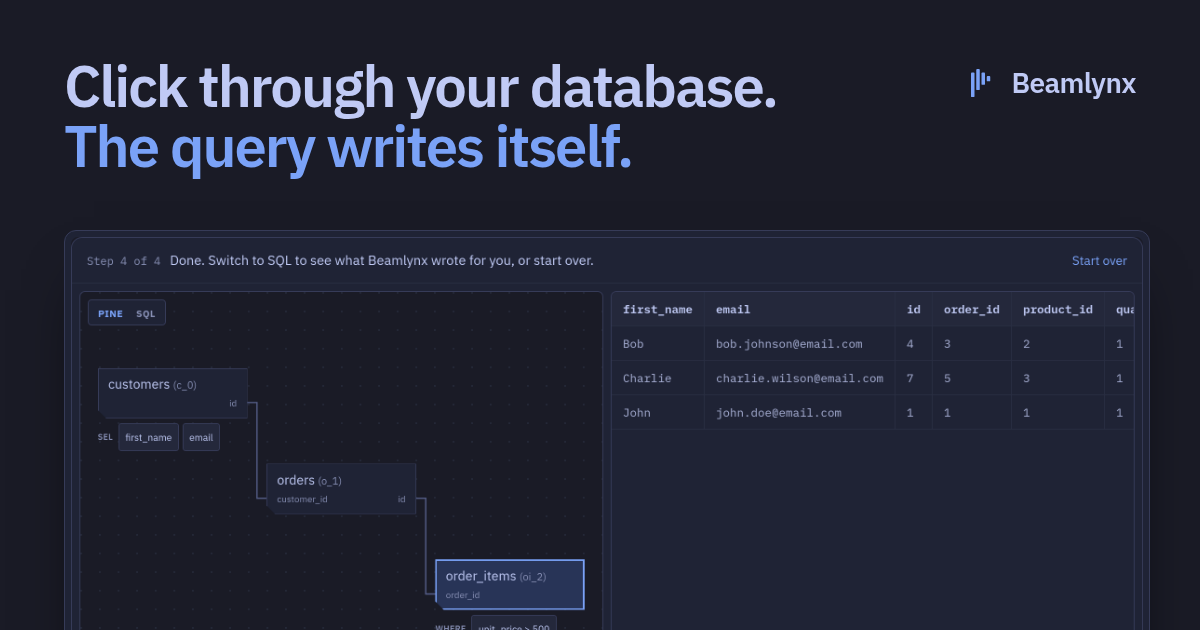
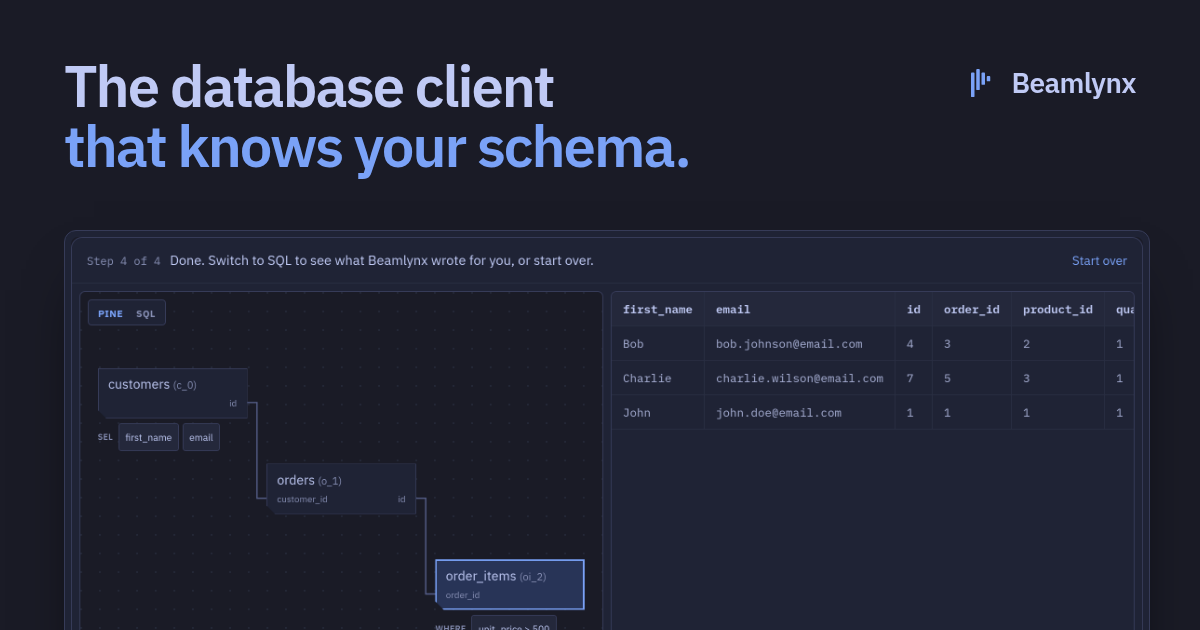
Lead with "The database client that knows your schema"
"Click through your database. The query writes itself." was vague, since
any table browser lets you click through tables. "The query writes
itself" also sounds like an AI text-to-SQL tool, which Beamlynx isn't.

What sets Beamlynx apart is that it reads the foreign keys and offers the
tables you can reach next. The headline now says that, and the line under
it shows what it means: pick a table, and Beamlynx shows you every table
it connects to.

Updated in all four languages, in the page titles and link previews, and
in the social image.

Changed region(s): [[0.0308, 0.0905, 0.6475, 0.3016]]

diff --git a/index.html b/index.html
@@ -8,11 +8,11 @@
     <title>Beamlynx</title>
     <!-- Static, because link previews (X, LinkedIn, Slack) read the HTML
          without running JavaScript, so tags React adds never reach them. -->
-    <meta name="description" content="A visual database client for PostgreSQL and MySQL. Click from table to table and the query writes itself." />
+    <meta name="description" content="Beamlynx is a database client for PostgreSQL and MySQL that knows your schema. Pick a table, and it shows you every table it connects to." />
     <meta property="og:type" content="website" />
     <meta property="og:site_name" content="Beamlynx" />
-    <meta property="og:title" content="Beamlynx - Click through your database" />
-    <meta property="og:description" content="A visual database client. Click from table to table and the query writes itself." />
+    <meta property="og:title" content="Beamlynx - The database client that knows your schema" />
+    <meta property="og:description" content="The database client that knows your schema. Pick a table, and it shows you every table it connects to." />
     <meta property="og:image" content="https://beamlynx.com/og-image.png" />
     <meta property="og:image:width" content="1200" />
     <meta property="og:image:height" content="630" />
